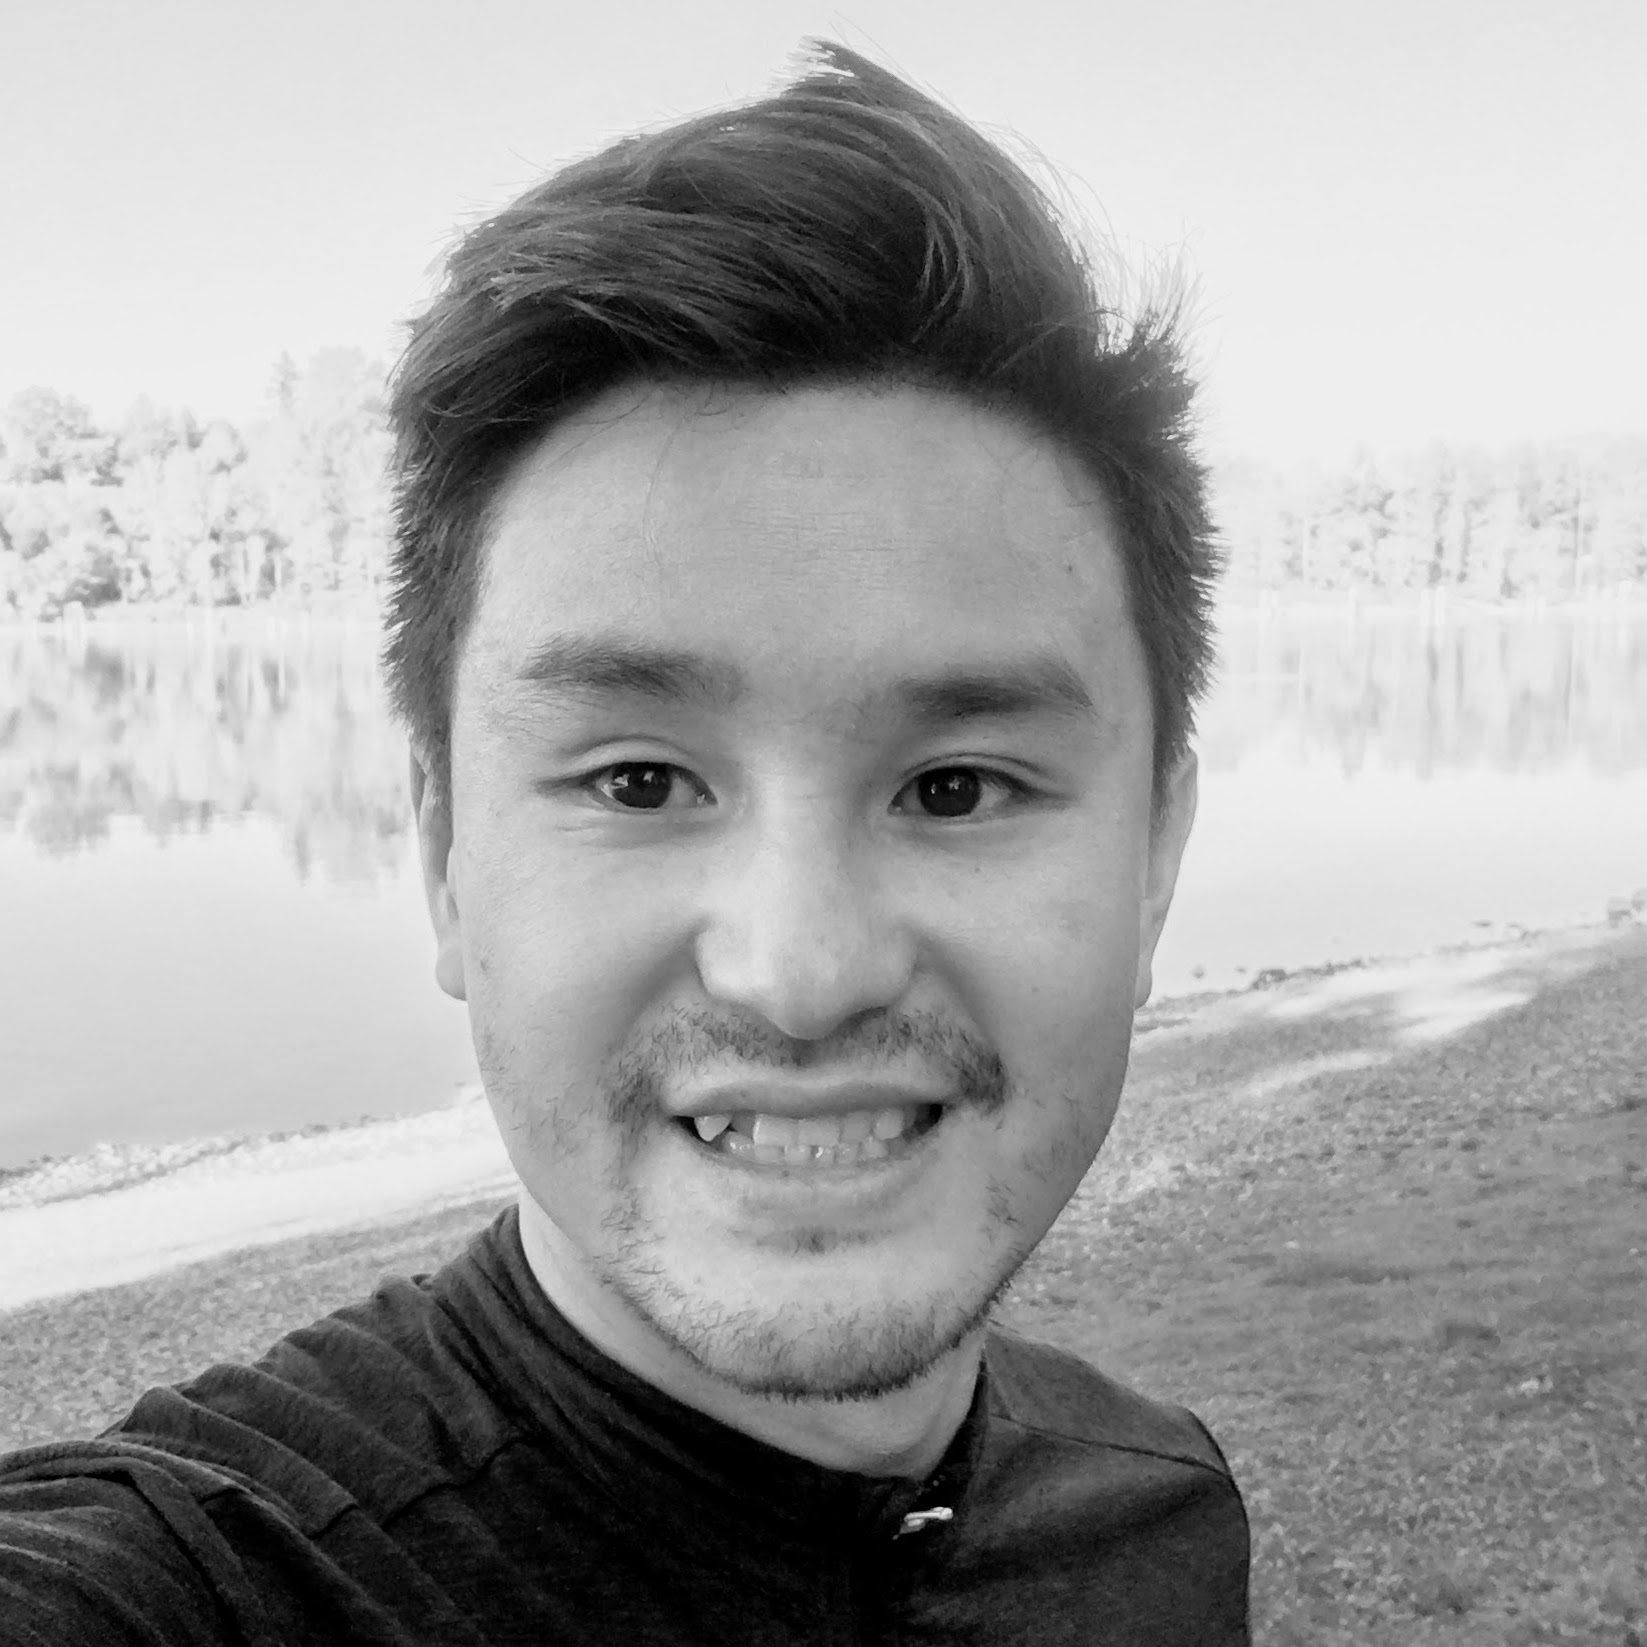
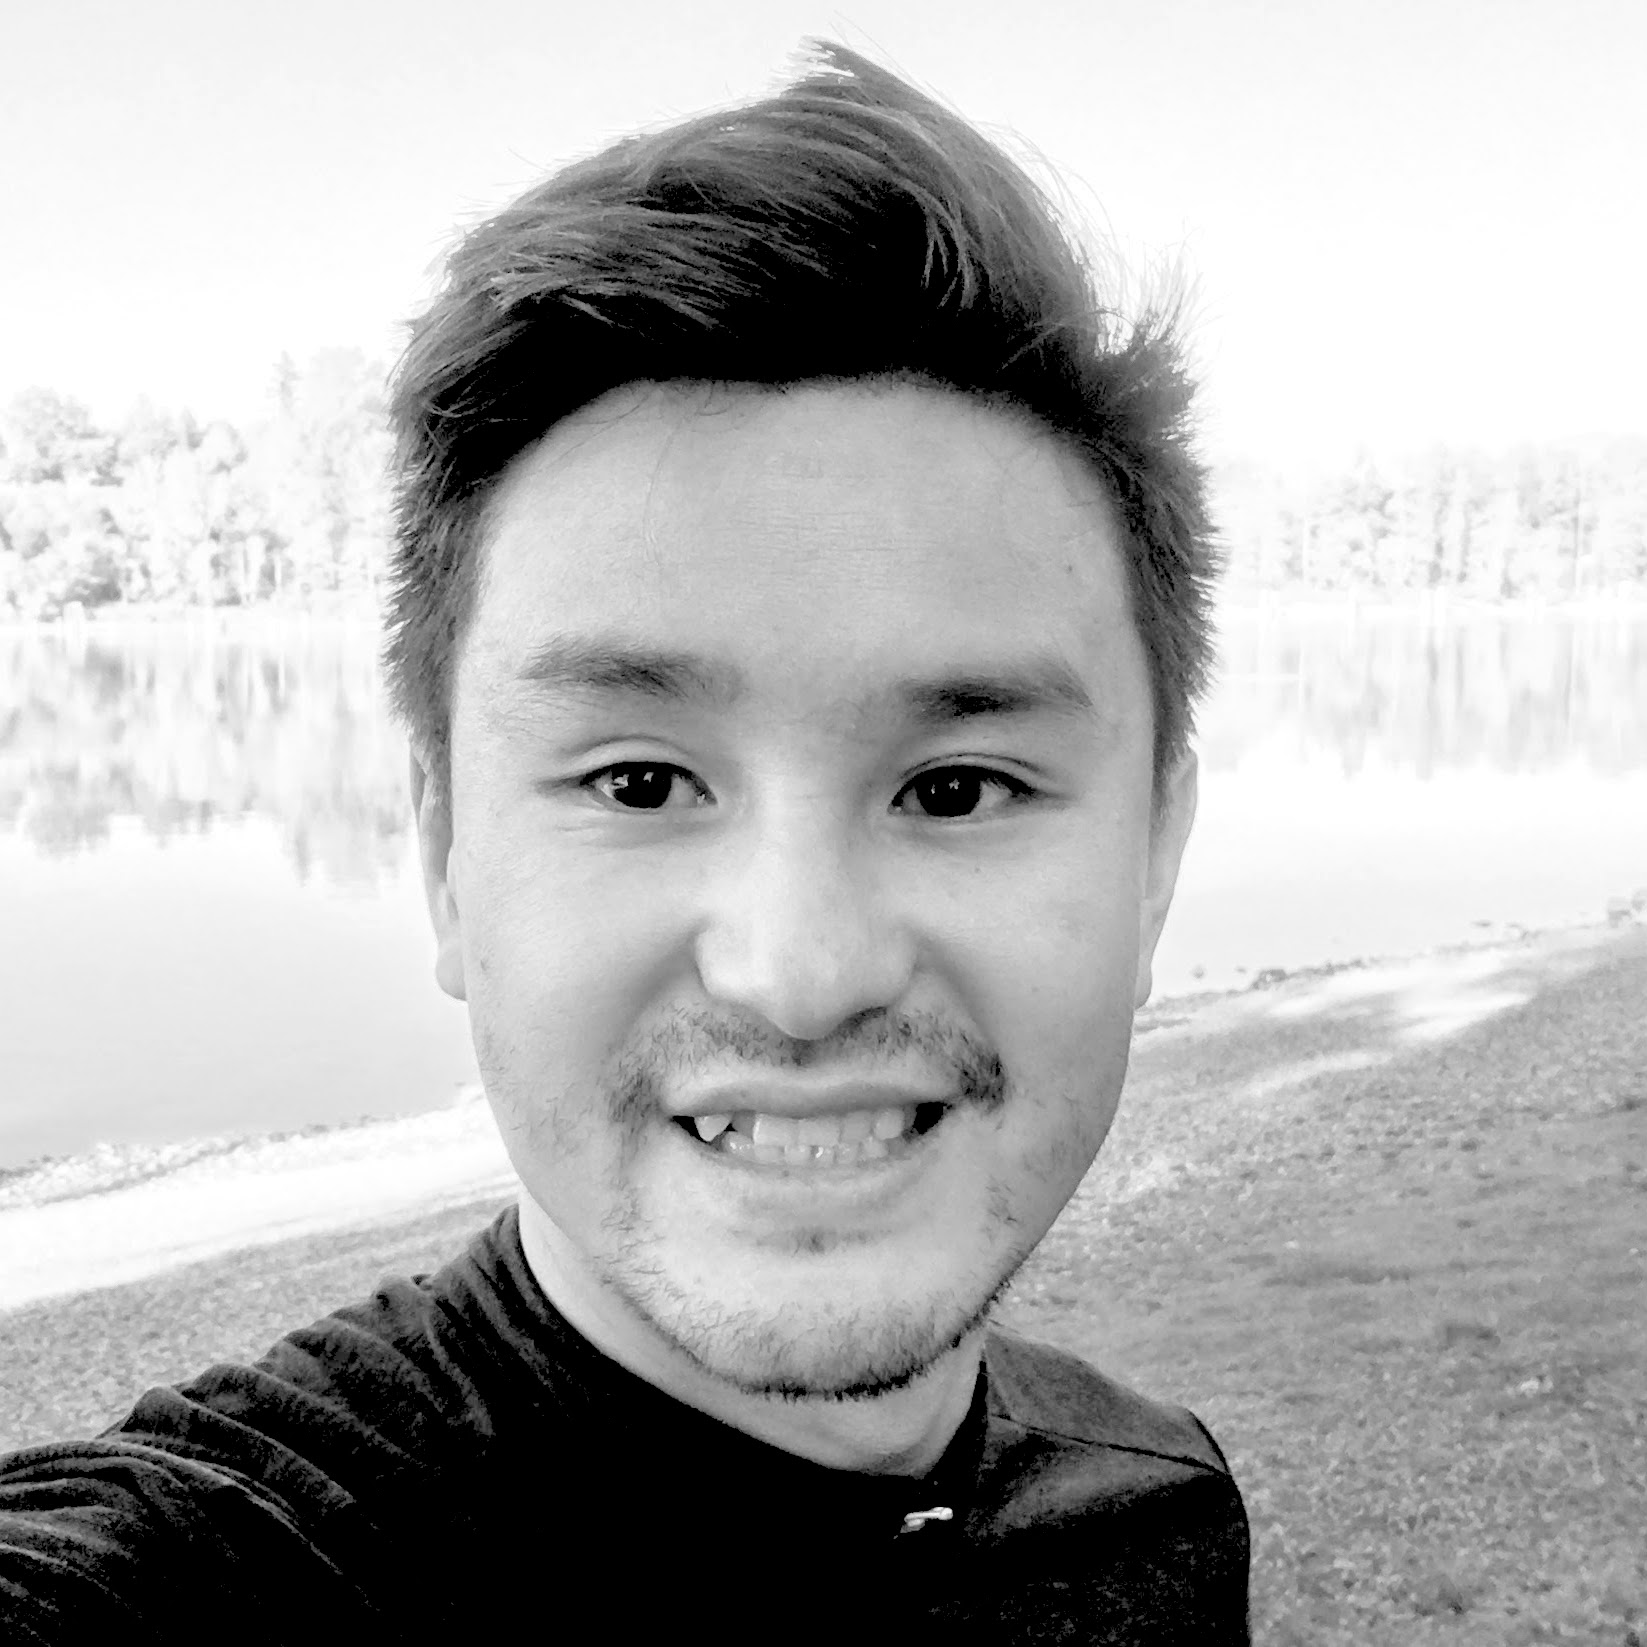
fixes profile image menu overlap

diff --git a/src/_includes/index.css b/src/_includes/index.css
@@ -194,8 +194,6 @@ article img {
   height: 8em;
   border-radius: 4em;
   object-fit: cover;
-  filter: brightness(120%) hue-rotate(0deg);
-  /*filter: sepia(90%) saturate(100%) brightness(100%) hue-rotate(180deg);*/
 }
 
 /* three.js */
